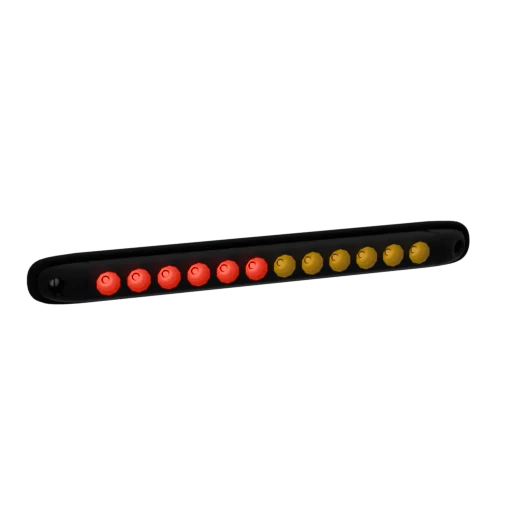
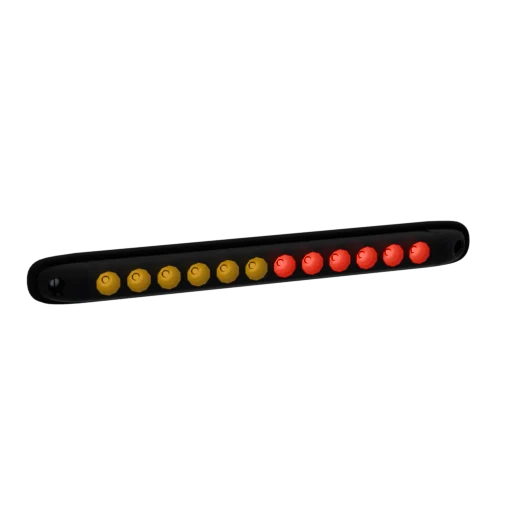
Put the LZD 2246 amber turn LEDs on the outer end and the red stop and position LEDs on the inner end.

Changed region(s): [[0.1875, 0.4688, 0.8438, 0.5938]]

diff --git a/tools/blender/lamps_cad2.py b/tools/blender/lamps_cad2.py
@@ -548,9 +548,9 @@ def build_lzd3223_cad(L):
 
 # =====================================================================
 # REAR STRIPS (kullanıcı 2026-10-23: yalnız standart dorse, kasanın arka üst köşeleri). İkisi de "universal" (sol / sağ aynı;
-# sağda lens ekseni çevresinde 180° döndürülür: kırmızı uç iki yanda dışta). Kaynaklar: üretici STEP'leri (ek paket 2026-10-22),
+# sağda lens ekseni çevresinde 180° döndürülür: −X ucu iki yanda dışta). Kaynaklar: üretici STEP'leri (ek paket 2026-10-22),
 # ürün paketleri (Downloads/LZD-2246.zip, LZD-3141.zip: föy, çizim, fotoğraflar).
-# Yerel: X uzunluk (önden bakınca sağ +X; kırmızı uç −X), Y yukarı, Z lens yönü, montaj yüzü Z = 0.
+# Yerel: X uzunluk (önden bakınca sağ +X; dış uç −X), Y yukarı, Z lens yönü, montaj yüzü Z = 0.
 # =====================================================================
 # LZD 2246 (HOR 86): 257 × 27 × 20, 2 × Ø4,5 delik (230), 12 LED: 6 kırmızı (pozisyon + fren), 6 turuncu (sinyal); 4 × 0,5 kablo
 # 1 m, arka ortadan. STEP'te: lens gövde (p000, içi dolu kabuk: CAD x ±126, derinlik y 0 … 18), lastik conta (p001, montaj yüzü
@@ -579,10 +579,10 @@ def build_lzd2246_cad(L):
         frame(L.inner, 'screw_pocket', _m(circle(5.2, 24, x, 0.0)), _m(circle(4.4, 24, x, 0.0)), _z(2.0), _z(9.0), mat('HousingGloss'), 0.0)
         cyl(L.inner, 'screw_head', 0.0036, (_z(x), 0.0, _z(2.0)), (_z(x), 0.0, _z(4.2)), mat('Stainless'), 20, bevel=0.0007)
         box(L.inner, 'screw_slot', _z(x - 0.4), _z(x + 0.4), -0.0025, 0.0025, _z(4.2), _z(4.4), mat('HousingGloss'))
-    # ===== 3) 12 fasetli krom kap: −X'te 6 kırmızı (pozisyon + fren), +X'te 6 turuncu (sinyal) =====
+    # ===== 3) 12 fasetli krom kap: −X'te (dış uç) 6 turuncu (sinyal), +X'te (iç uç) 6 kırmızı (pozisyon + fren); kullanıcı 2026-10-23 =====
     for k in range(12):
         x = (k - 5.5) * 16.2
-        fn, col = ('position+stop', 'red') if k < 6 else ('turn', 'amber')
+        fn, col = ('turn', 'amber') if k < 6 else ('position+stop', 'red')
         tint = '#c3c7cc'
         gains = (0.42, 0.3, 0.2)
         _cup_bands(L.E(fn), _z(x), 0.0, _z(16.2), 0.0065, 0.0021, _z(16.2 - ZF - 0.3), gains, fn, col, tint, 0.28, seg=10)

diff --git a/docs/Lambalar/README.md b/docs/Lambalar/README.md
@@ -310,7 +310,7 @@ Betik `tools/blender/lamps_cad2.py` (sonu). STEP → STL: `tools/blender/cad/lzd
 
 | Ürün | Ölçü (mm) | İşlevler (EMIT) | Kaynak |
 |---|---|---|---|
-| LZD 2246 (HOR 86, universal) | 257 × 27 × 20, 2 × Ø4,5 (230) | position+stop (6 kırmızı kap), turn (6 turuncu kap) | STEP: lens kabuğu + lastik conta; kaplar fotoğraftan |
+| LZD 2246 (HOR 86, universal) | 257 × 27 × 20, 2 × Ø4,5 (230) | turn (dış uçta 6 turuncu kap), position+stop (iç uçta 6 kırmızı kap; kullanıcı 2026-10-23) | STEP: lens kabuğu + lastik conta; kaplar fotoğraftan |
 | LZD 3141 LIZARD (HOR 145AD, universal) | 252 × 27 × 21 | position (22 üçgen kılavuz), stop (uçlarda 2 + 2 altıgen), turn (ortada 8 altıgen; föyde dinamik, sitede sabit) | STEP: lens, uç kapakları, arka kapak, taban; iç fotoğraftan |
 | LRD 2681 (HOR 111) | 101 × 127 × 50,5, M8 | work (12 LED halka), work+reverse (ortadaki 3 büyük LED) | STEP'i yok: **aynı gövdenin LRD 2679 STEP'i** (gövde, ön çerçeve, C braket, cıvata, pul, somun, ped); orta beyaz blok ve halka 2681 fotoğraflarından |
 
